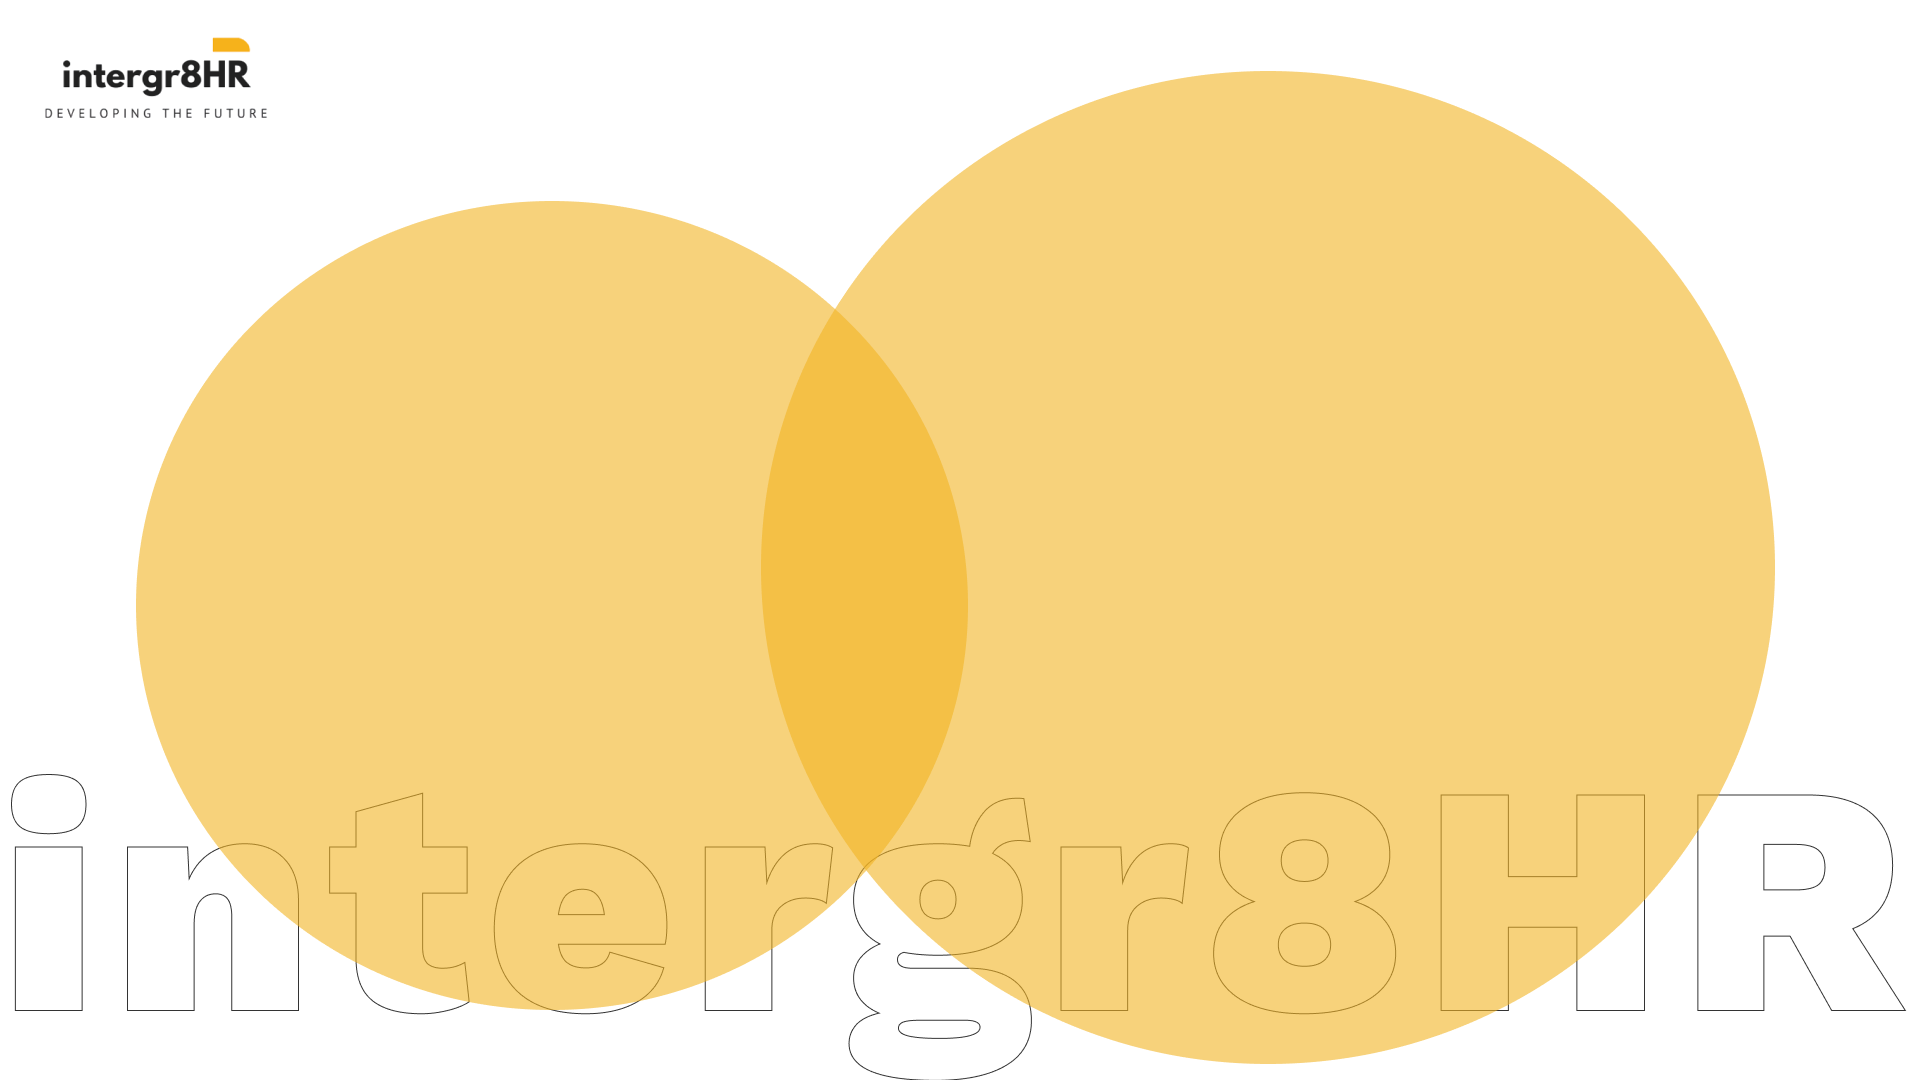
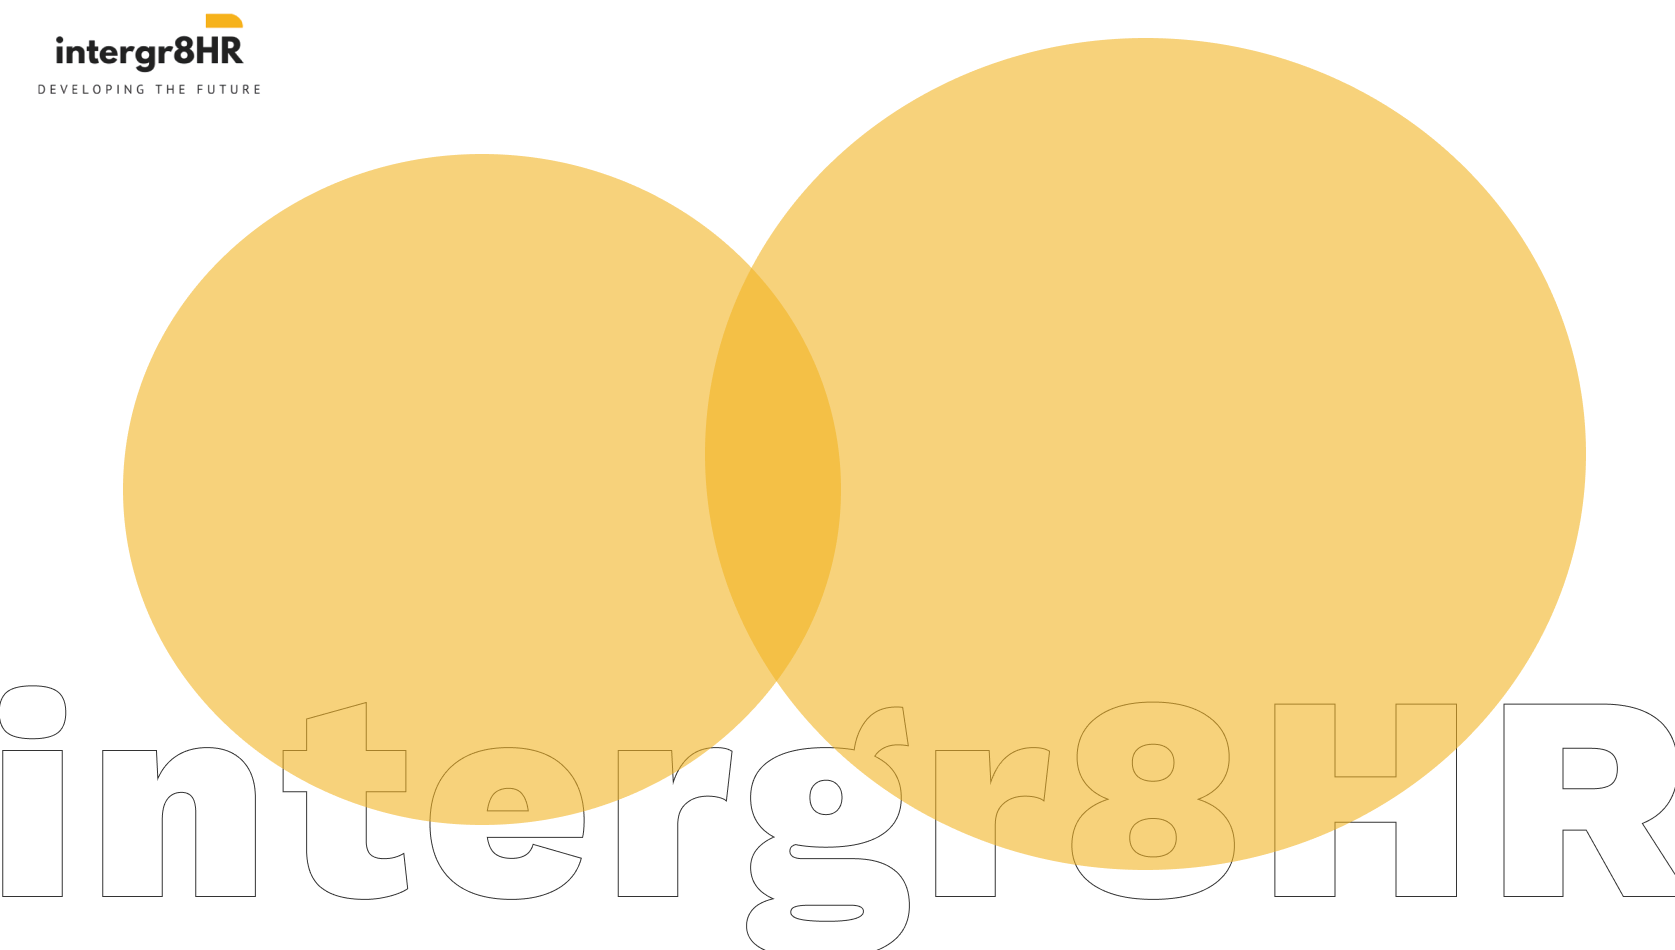
backdrop

diff --git a/src/containers/Routes/Routes.jsx b/src/containers/Routes/Routes.jsx
@@ -2,7 +2,7 @@ import React, { Component } from "react";
 import { Router } from "@reach/router";
 
 import LogInBox from "../../components/LogInBox";
-import TicketingDashboard from "../../components/TicketingDashboard";
+import TicketingDashboard from "../../components/ticketingDashboard/TicketingDashboard";
 import CategoryChooser from "../../components/CategoryChooser";
 
 class Routes extends Component {

diff --git a/src/App.jsx b/src/App.jsx
@@ -1,8 +1,8 @@
 import React from "react";
 import "./App.css";
-import Routes from "./containers/Routes/Routes";
+import Routes from "./containers/Routes/Routes.jsx";
 import "./data/fa-library";
-import CategoryChooser from "./containers/CategoryChooser";
+import CategoryChooser from "./components/CategoryChooser";
 
 function App() {
   // return <Routes />;

diff --git a/src/components/CategoryChooser/CategoryChooser.module.scss b/src/components/CategoryChooser/CategoryChooser.module.scss
@@ -1,14 +1,12 @@
 @import "../../variables.scss";
 
-
+body {
+  background-image: url(../../assets/Frame3.png);
+}
 .categoryChooser {
   h1 {
     text-align: center;
     padding-top: 150px;
     font-size: $xlarge;
   }
-  
-  background-color: $primary-yellow;
-  height: 100vh;
-  
 }

diff --git a/src/components/CategoryChooser/TicketCatStageThree/TicketCatStageThree.jsx b/src/components/CategoryChooser/TicketCatStageThree/TicketCatStageThree.jsx
@@ -1,6 +1,6 @@
 import React, { Component } from "react";
 import styles from "./TicketCatStageThree.module.scss";
-import Checkout from "../Checkout/Checkout";
+import Checkout from "../../../utilities/Checkout";
 
 class TicketCatStageThree extends Component {
   state = {};
